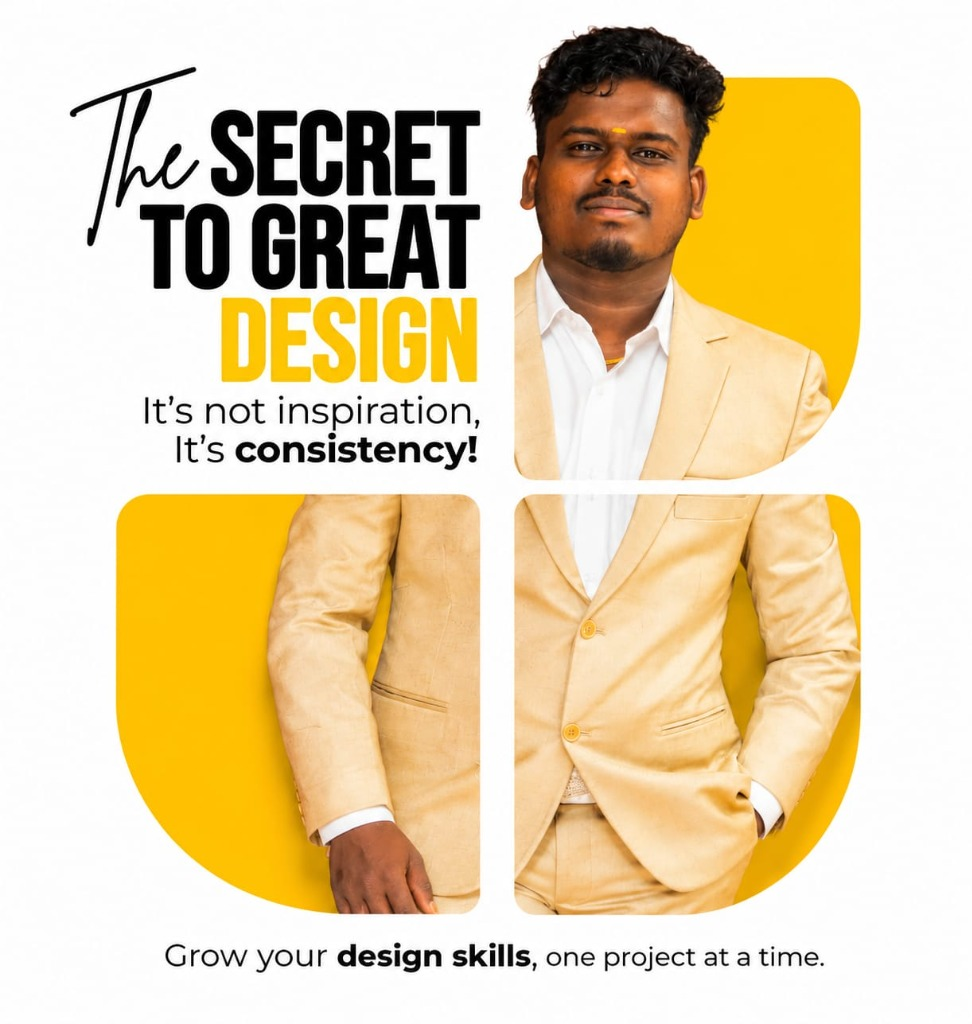
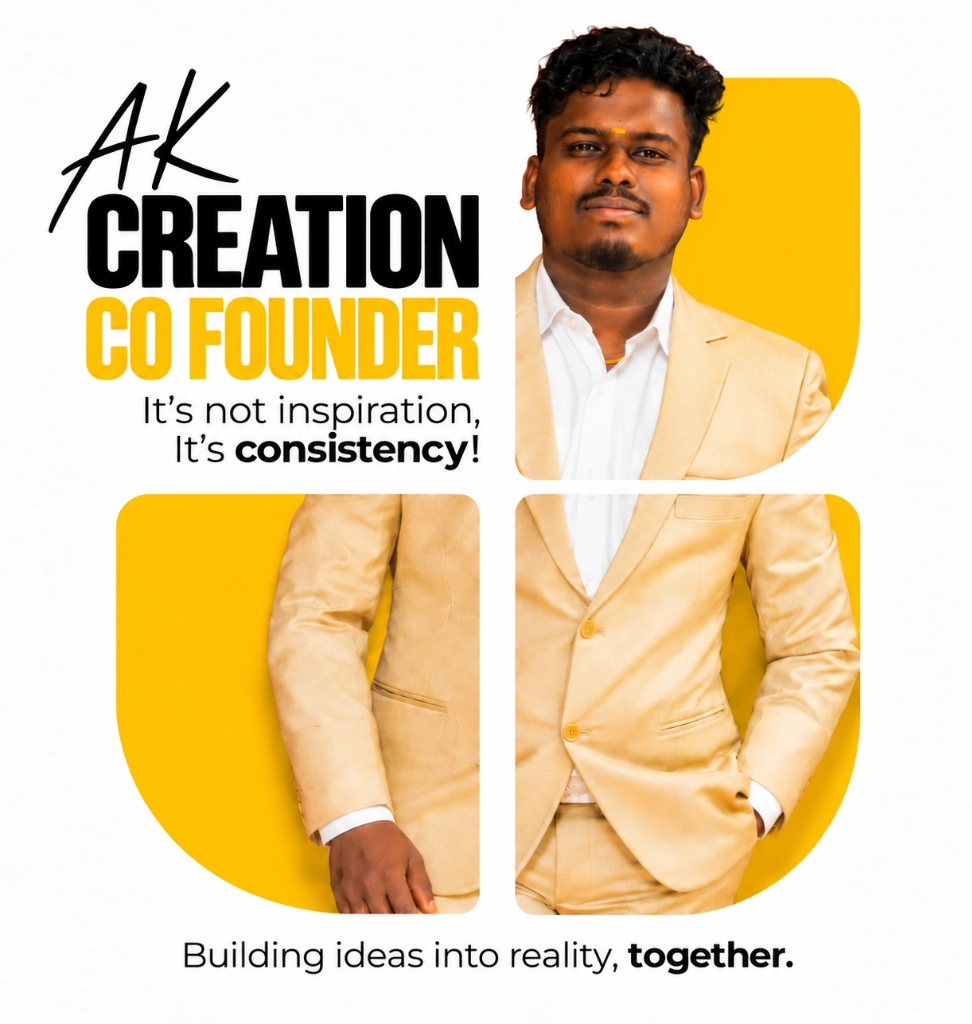
Update AK Creation Co-Founder photo in Hero and About sections

diff --git a/src/components/Hero.jsx b/src/components/Hero.jsx
@@ -57,17 +57,17 @@ export default function Hero() {
               
               {/* Clean Yellow Frame */}
               <div className="bg-yellow-400 p-2.5 rounded-xl border-2 border-slate-900 shadow-[4px_4px_0px_#0f172a]">
-                <div className="rounded-lg overflow-hidden border border-slate-900 bg-white aspect-[4/5]">
+                <div className="rounded-lg overflow-hidden border border-slate-900 bg-white aspect-square">
                   <img
                     src="/founder.jpg"
-                    alt="The Secret to Great Design - AK Creation"
+                    alt="AK Creation Co-Founder"
                     className="w-full h-full object-cover"
                   />
                 </div>
                 <div className="pt-2 px-1 flex items-center justify-between text-xs text-slate-950 font-black">
                   <span>AK Creation</span>
                   <span className="bg-slate-950 text-yellow-300 px-2 py-0.5 rounded text-[10px]">
-                    Creative Lead
+                    Co-Founder
                   </span>
                 </div>
               </div>

diff --git a/src/components/About.jsx b/src/components/About.jsx
@@ -66,15 +66,15 @@ export default function About() {
           {/* Right: Compact Photo Frame */}
           <div className="lg:col-span-5">
             <div className="max-w-xs mx-auto bg-white border-2 border-slate-900 rounded-xl p-2.5 shadow-[4px_4px_0px_#facc15]">
-              <div className="rounded-lg overflow-hidden aspect-[4/5] bg-slate-100">
+              <div className="rounded-lg overflow-hidden aspect-square bg-slate-100">
                 <img
                   src="/founder.jpg"
-                  alt="Creative Director - The Secret to Great Design"
+                  alt="AK Creation Co-Founder"
                   className="w-full h-full object-cover"
                 />
               </div>
               <p className="text-center text-xs font-black text-slate-900 mt-2">
-                &quot;Grow your design skills, one project at a time.&quot;
+                &quot;It's not inspiration, It's consistency!&quot;
               </p>
             </div>
           </div>
